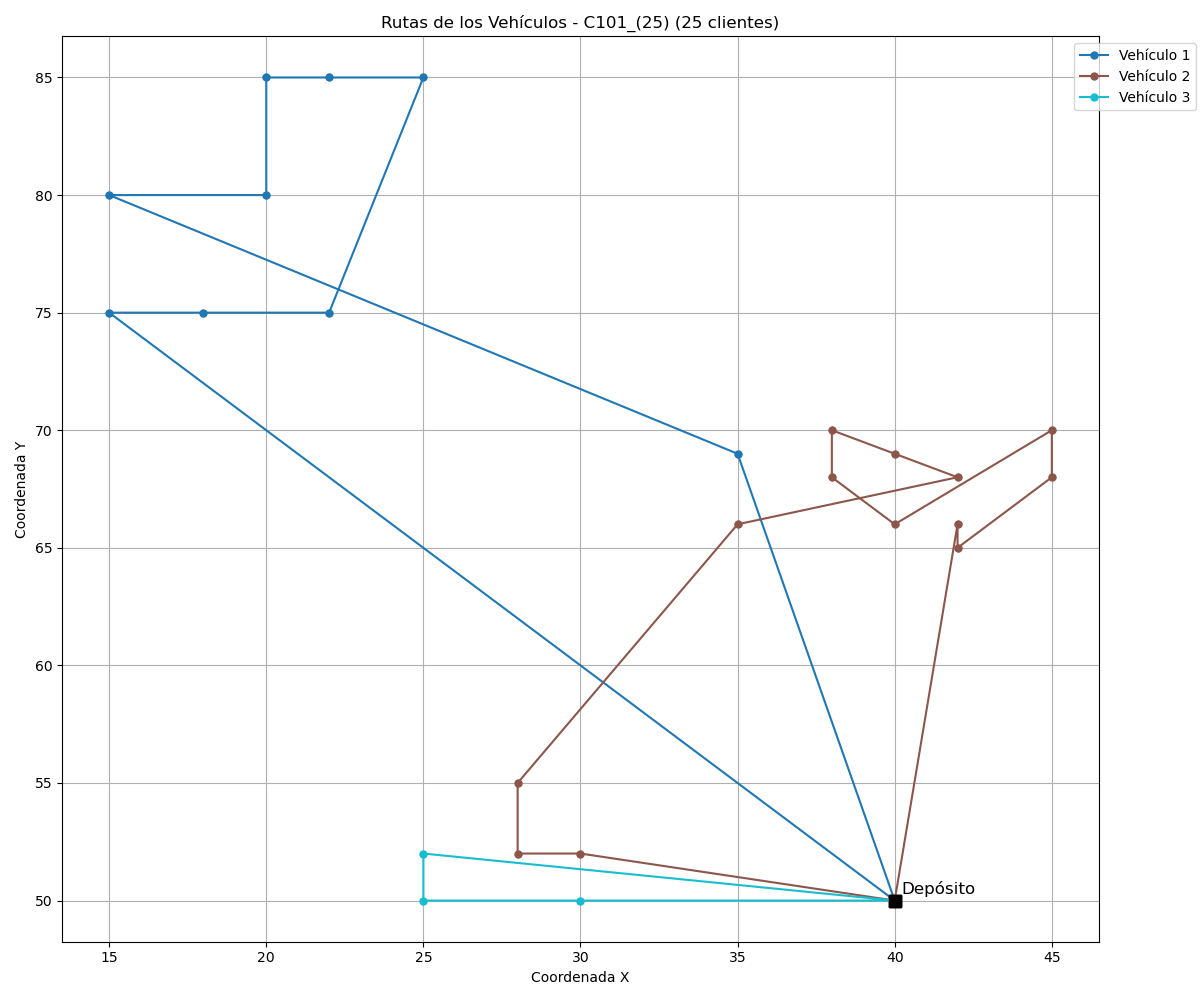
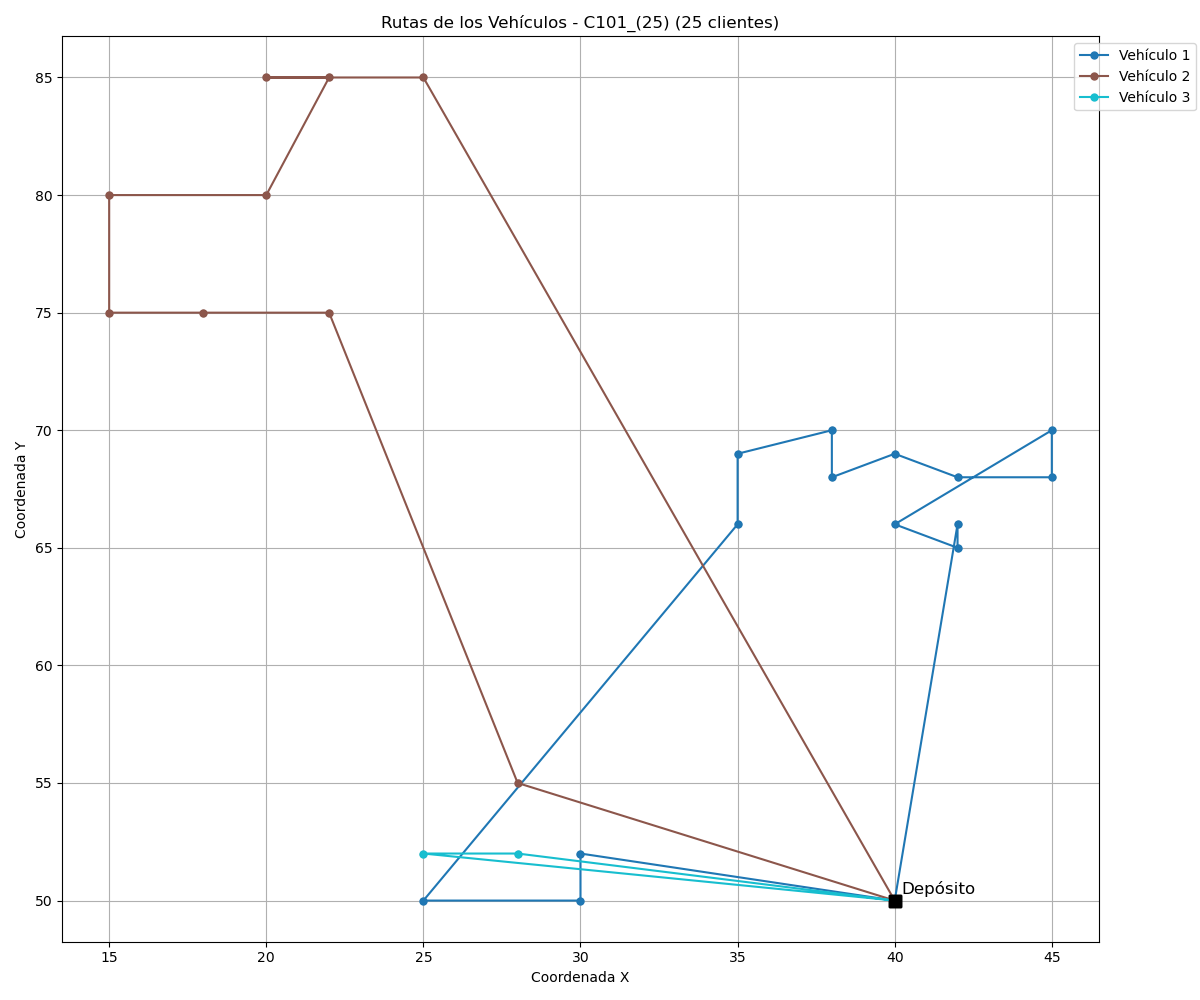
Vamos ajustra el umbral en vt

diff --git a/VRP_TW/src/aed.c b/VRP_TW/src/aed.c
@@ -114,7 +114,8 @@ void evaluaFO_AED(struct individuo *ind, double **instancia_feromona, double **i
 double generaAleatorio(double minimo, double maximo)
 {
    // Genera un número aleatorio entre 0 y 1, luego lo escala al rango deseado
-   return minimo + ((double)rand() / RAND_MAX) * (maximo - minimo);
+   double aleatorio = minimo + ((double)rand() / RAND_MAX) * (maximo - minimo);
+   return aleatorio;
 }
 
 void construyeRuidosos(struct individuo *objetivo, struct individuo *ruidoso, int poblacion)
@@ -140,6 +141,7 @@ void construyeRuidosos(struct individuo *objetivo, struct individuo *ruidoso, in
       ruidoso[i].beta = objetivo[aleatorio1].beta + 0.5 * (objetivo[aleatorio2].beta - objetivo[aleatorio3].beta);
       ruidoso[i].gamma = objetivo[aleatorio1].gamma + 0.5 * (objetivo[aleatorio2].gamma - objetivo[aleatorio3].gamma);
       ruidoso[i].rho = objetivo[aleatorio1].rho + 0.5 * (objetivo[aleatorio2].rho - objetivo[aleatorio3].rho);
+      ruidoso[i].umbral = objetivo[aleatorio1].umbral + 0.5 * (objetivo[aleatorio2].umbral - objetivo[aleatorio3].umbral);
       ruidoso[i].numHormigas = objetivo[aleatorio1].numHormigas + (int)(0.5 * (objetivo[aleatorio2].numHormigas - objetivo[aleatorio3].numHormigas));
       ruidoso[i].numIteraciones = objetivo[aleatorio1].numIteraciones + (int)(0.5 * (objetivo[aleatorio2].numIteraciones - objetivo[aleatorio3].numIteraciones));
 
@@ -165,12 +167,19 @@ void construyeRuidosos(struct individuo *objetivo, struct individuo *ruidoso, in
       if (ruidoso[i].gamma < 0.0)
          ruidoso[i].gamma = 0.0;
 
-      // Ajusta los valores de rho dentro del rango permitido [0.1, 0.9]
+      // Ajusta los valores de rho dentro del rango permitido [0.1, 0.8]
       if (ruidoso[i].rho > 0.8)
          ruidoso[i].rho = 0.8;
 
       if (ruidoso[i].rho < 0.1)
          ruidoso[i].rho = 0.1;
+      
+      // Ajusta los valores del umbral o dentro del rango permitido [0.0, 1.0]
+      if (ruidoso[i].umbral > 1.0)
+         ruidoso[i].umbral = 1.0;
+
+      if (ruidoso[i].umbral < 0.0)
+         ruidoso[i].rho = 0.0;
 
       // Ajusta el número de hormigas dentro del rango permitido [50, 100]
       if (ruidoso[i].numHormigas > 100)
@@ -224,6 +233,7 @@ void inicializaPoblacion(struct individuo *objetivo, int poblacion)
       objetivo[i].beta = generaAleatorio(1.5, 2.5);                // beta: entre 1.0 y 2.5
       objetivo[i].gamma = generaAleatorio(0.0, 1.5);               // gamma: entre 0.1 y 1.5
       objetivo[i].rho = generaAleatorio(0.1, 0.8);                 // rho: entre 0.1 y 0.9
+      objetivo[i].umbral = generaAleatorio(0.1, 1.0);                 // umbral: entre 0.0 y 1.0
       objetivo[i].numHormigas = (int)generaAleatorio(50, 100);     // numHormigas: entre 50 y 100
       objetivo[i].numIteraciones = (int)generaAleatorio(100, 200); // numIteraciones: entre 100 y 200
    }

diff --git a/VRP_TW/include/estructuras.h b/VRP_TW/include/estructuras.h
@@ -81,11 +81,11 @@ typedef struct cliente
 // Estructura que contiene la configuración del problema VRP con ventanas de tiempo
 typedef struct vrp_configuracion
 {
-    int num_clientes;            // Número total de clientes en el VRP
-    int num_vehiculos;           // Número total de vehículos disponibles
-    int num_capacidad;           // Capacidad de cada vehículo
-    cliente *clientes;           // Arreglo de clientes en el VRP
-    double tiempo_ejecucion;     // Tiempo de ejecucion del codigo
+    int num_clientes;        // Número total de clientes en el VRP
+    int num_vehiculos;       // Número total de vehículos disponibles
+    int num_capacidad;       // Capacidad de cada vehículo
+    cliente *clientes;       // Arreglo de clientes en el VRP
+    double tiempo_ejecucion; // Tiempo de ejecucion del codigo
     char *archivo_instancia; // Nombre del archivo
 } vrp_configuracion;
 
@@ -97,6 +97,7 @@ typedef struct individuo
     double beta;        // Parámetro beta para el algoritmo ACO
     double gamma;       // Parámetro gamma (usado en el algoritmo)
     double rho;         // Factor de evaporación de feromona
+    double umbral;      // Umbral de seleccion determinista
     int numHormigas;    // Número de hormigas en la población
     int numIteraciones; // Número de iteraciones del algoritmo
     double fitness;     // Medida de rendimiento del individuo

diff --git a/VRP/src/aed.c b/VRP/src/aed.c
@@ -137,7 +137,7 @@ void construyeRuidosos(struct individuo *objetivo, struct individuo *ruidoso, in
       if (ruidoso[i].beta < 1.5)
          ruidoso[i].beta = 1.5;
 
-      // Ajusta los valores de rho dentro del rango permitido [0.1, 0.9]
+      // Ajusta los valores de rho dentro del rango permitido [0.1, 0.8]
       if (ruidoso[i].rho > 0.8)
          ruidoso[i].rho = 0.8;
 
